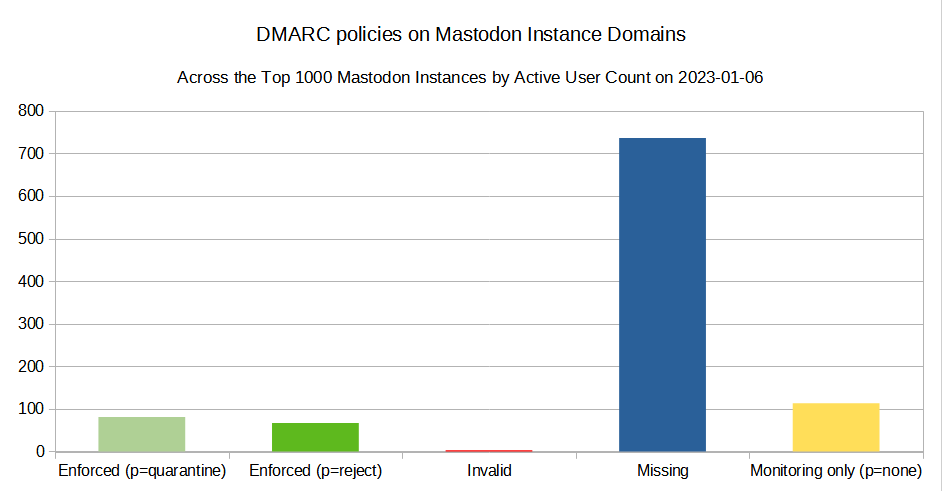
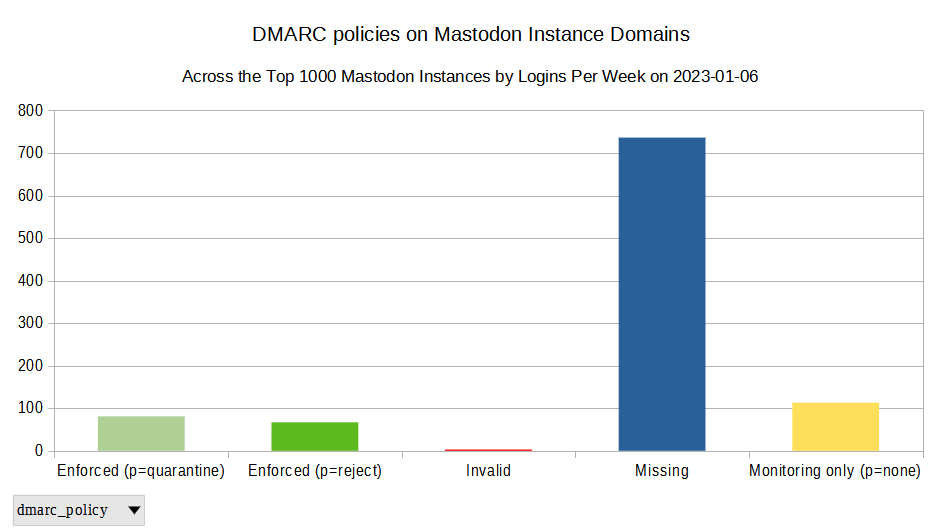
1.1.0
- Rename the `active_users` field name provided by instances.social to the more accurate mame `logins_per_week`
- Rename the `statuses` field name provided by instances.social to the current mame `posts`
- Add the fields `dnssec`, `spf_valid`, `warnings`, and `errors`

diff --git a/mastodon-dmarc-survey.py b/mastodon-dmarc-survey.py
@@ -10,17 +10,18 @@ import simplejson
 from requests_toolbelt import user_agent, sessions
 import checkdmarc
 
-__version__ = "1.0.1"
+__version__ = "1.1.0"
 
 instance_csv_fields = ["name", "description", "email", "admin",
-                       "active_users", "users", "posts",
-                       "connections", "dmarc_policy"]
+                       "logins_per_week", "users", "posts",
+                       "connections", "dnssec", "spf_valid", "dmarc_policy",
+                       "warnings", "errors"]
 
 
 class MastodonInstancesClient:
     def __init__(self, api_key):
-        headers = {"User-Agent": user_agent("checkdmarc-mastodon", __version__),
-                   "Authorization": f"Bearer {api_key}"}
+        headers = {"User-Agent": user_agent("cmastodon-dmarc-surveyn", __version__),
+                   "Authorization": "Bearer {}".format(api_key)}
         base_url = "https://instances.social/api/1.0/"
         self._session = sessions.BaseUrlSession(base_url=base_url)
         self._session.headers = headers
@@ -67,10 +68,24 @@ def _main():
         else:
             instances = [client.get_instance(args.instance)]
         for i in range(len(instances)):
+            errors = []
+            warnings = []
             instance = instances[i]
+            # Convert fields names to something more accurate
+            instance["posts"] = instance["statuses"]
+            del instance["statuses"]
+            instance["logins_per_week"] = instance["active_users"]
+            del instance["active_users"]
+            try:
+                dnssec = checkdmarc.test_dnssec(instance["name"])
+            except checkdmarc.DNSException:
+                dnssec = False
+            instance["dnssec"] = dnssec
             try:
                 dmarc_record = checkdmarc.get_dmarc_record(
                     instance["name"], timeout=.5)
+                for warning in dmarc_record["parsed"]["warnings"]:
+                    warnings.append("DMARC: {}".format(warning))
                 dmarc_policy = dmarc_record["parsed"]["tags"]["p"]["value"]
                 if dmarc_policy == "none":
                     dmarc_policy = "Monitoring only (p=none)"
@@ -78,23 +93,36 @@ def _main():
                     dmarc_policy = "Enforced (p=quarantine)"
                 elif dmarc_policy == "reject":
                     dmarc_policy = "Enforced (p=reject)"
-            except checkdmarc.DMARCRecordNotFound:
+            except checkdmarc.DMARCRecordNotFound as e:
                 dmarc_policy = "Missing"
-            except checkdmarc.DMARCError:
+            except checkdmarc.DMARCError as e:
                 dmarc_policy = "Invalid"
-            except checkdmarc.DNSException:
+                errors.append("DMARC: {}".format(str(e)))
+            except checkdmarc.DNSException as e:
                 dmarc_policy = "Invalid"
+                errors.append("DMARC: {}".format(str(e)))
+            instance["spf_valid"] = False
+            try:
+                spf_record = checkdmarc.get_spf_record(
+                    instance["name"], timeout=.5)
+                warnings += spf_record["warnings"]
+            except checkdmarc.SPFError as e:
+                errors.append("SPF: {}".format(e))
             instance["dmarc_policy"] = dmarc_policy
+            instance["errors"] = errors
+            instance["warnings"] = warnings
+
             instances[i] = instance
 
-    output = simplejson.dumps(instance)
+    output = simplejson.dumps(instances, indent=2)
     if not args.json:
         csv_file = StringIO(newline="\n")
         csv_writer = csv.DictWriter(csv_file, fieldnames=instance_csv_fields)
         csv_writer.writeheader()
         for instance in instances:
-            instance["posts"] = instance["statuses"]
             instance["description"] = ""
+            instance["errors"] = "|".join(instance["errors"])
+            instance["warnings"] = "|".join(instance["warnings"])
             if instance["info"] is not None:
                 try:
                     description = instance["info"]["short_description"]

diff --git a/CHANGELOG.md b/CHANGELOG.md
@@ -1,0 +1,11 @@
+# Changelog
+
+## 1.1.0
+
+- Rename the `active_users` field name provided by instances.social to the more accurate mame `logins_per_week`
+- Rename the `statuses` field name provided by instances.social to the current mame `posts` 
+- Add the fields `dnssec`, `spf_valid`, `warnings`, and `errors`
+
+## 1.0.0
+
+- Initial release
